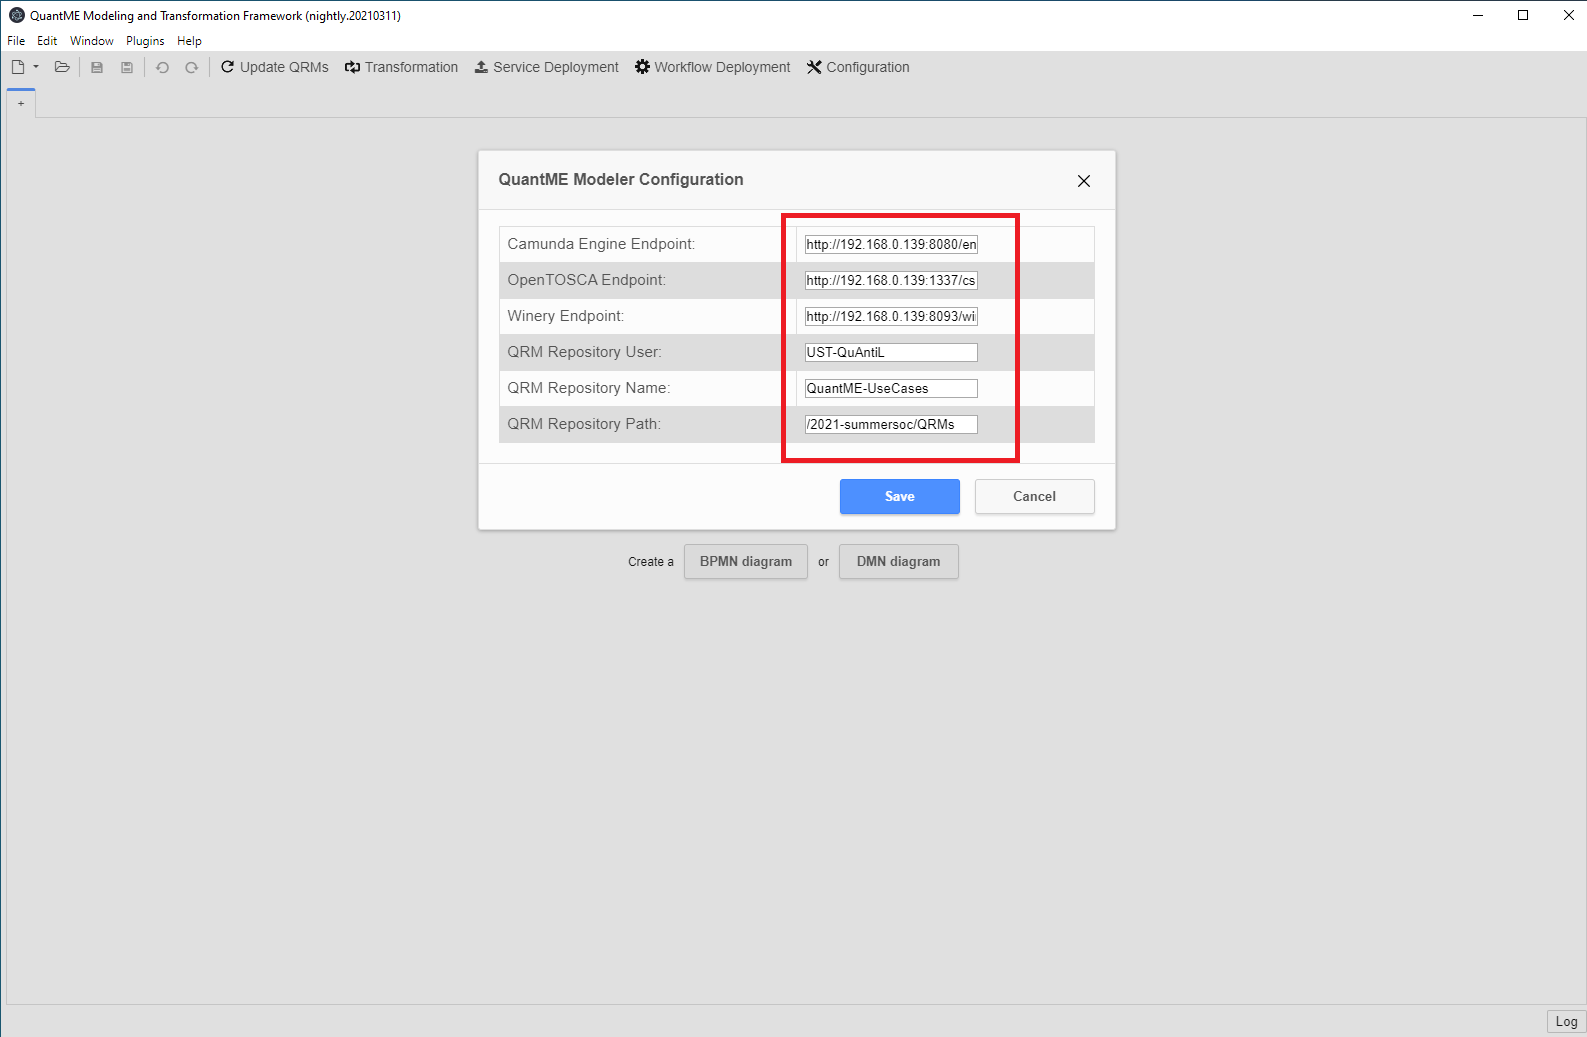
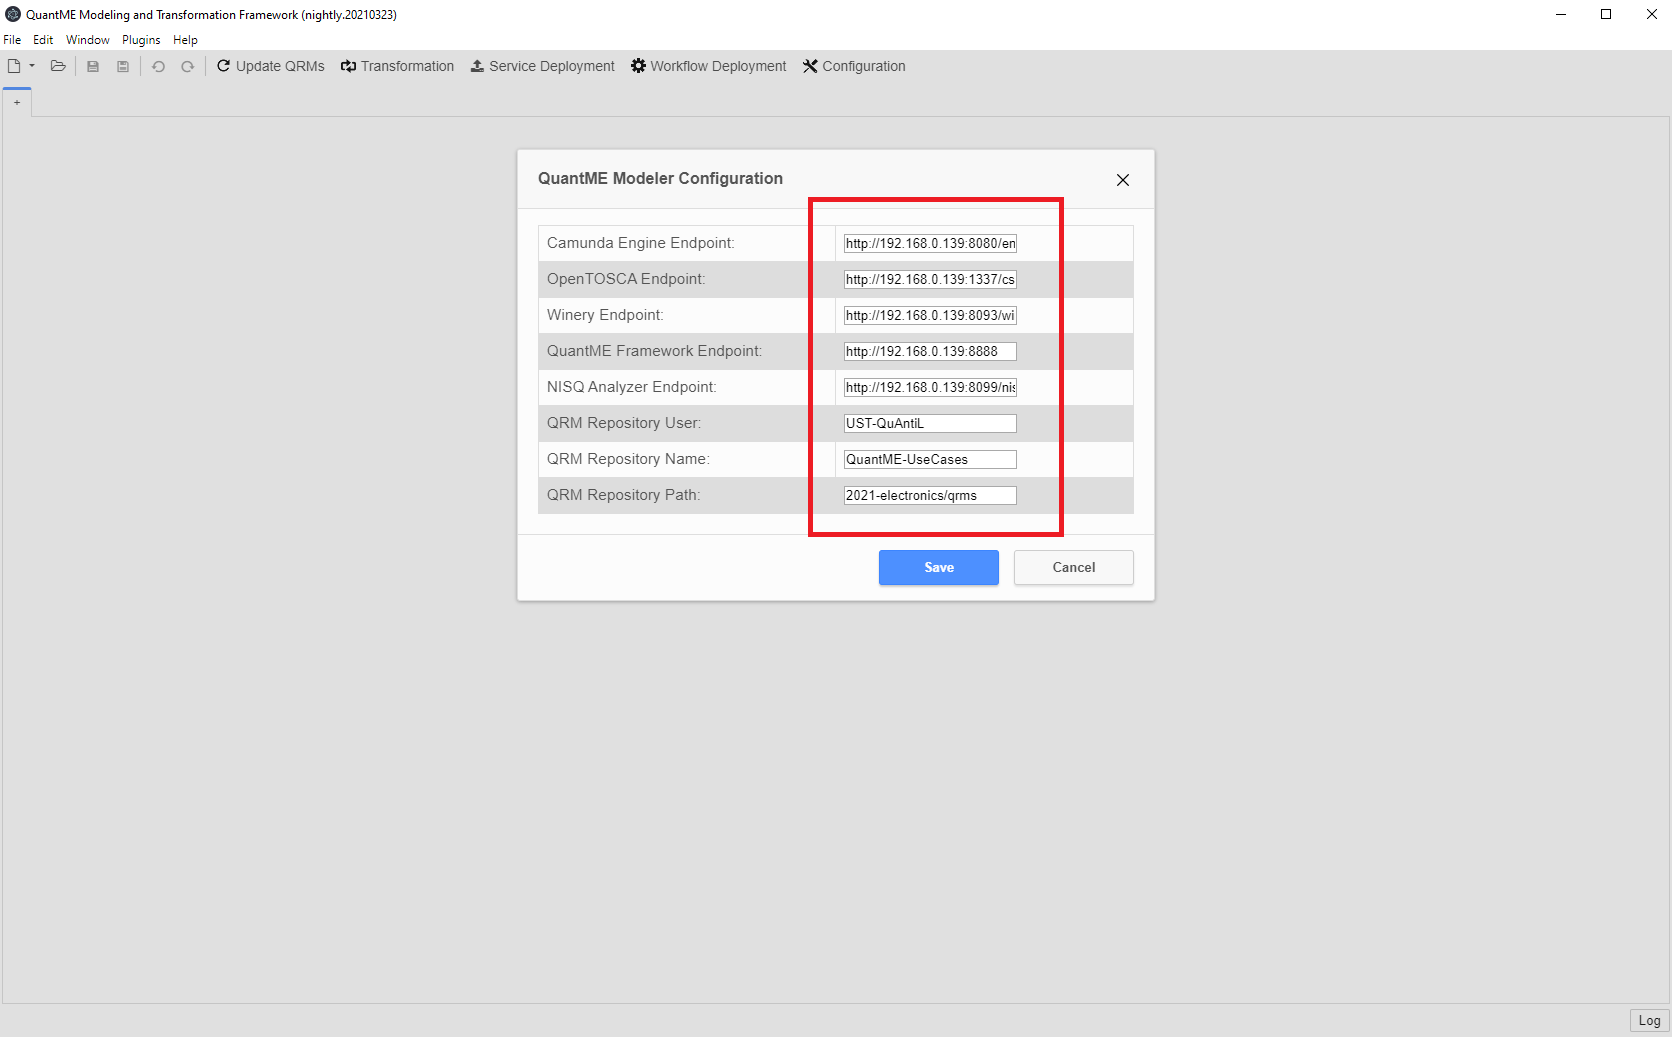
Add transformation step to README

Changed region(s): [[0.2779, 0.1543, 0.7101, 0.5863], [0.0, 0.0, 0.5558, 0.0926], [0.9572, 0.9566, 1.0, 1.0]]

diff --git a/2021-electronics/README.md b/2021-electronics/README.md
@@ -8,7 +8,7 @@ The following figure shows a workflow model implementing Simon's algorithm:
 ![Workflow Model](./workflow/simons-algorithm-hardware-selection.png)
 
 Furthermore, it is available in XML format [here](./workflow/simons-algorithm-hardware-selection.bpmn).
-In the following, the different steps to execute the workflow model including the dynamic hardware selection is presented.
+In the following, the different steps to execute the workflow model including the dynamic hardware selection are presented.
 
 Please refer to the *Troubleshooting* section at the end of this README if you have some issues during execution!
 
@@ -46,7 +46,7 @@ Thereby, $IP has to be replaced with the IP-address of the Docker engine if you 
 * ``Winery Endpoint``: http://$IP:8093/winery
 * ``QRM Repository User``: UST-QuAntiL
 * ``QRM Repository Name``: QuantME-UseCases
-* ``QRM Repository Path``: /2021-summersoc/QRMs
+* ``QRM Repository Path``: /2021-electronics/QRMs
 
 ![Update Configuration](./docs/update-settings.png)
 
@@ -56,7 +56,7 @@ All other required service can be started using the Docker-Compose file located 
 
 1. Update the [.env](./docker/.env) file with your settings: 
   * ``PUBLIC_HOSTNAME``: Enter the hostname/IP address of your Docker engine. Do *not* use ``localhost``.
-  * ``IBM_ACCESS_TOKEN``: Enter your IBM access token which is needed to retrieve the required provenance data by [QProv](https://github.com/UST-QuAntiL/qprov). It can be retrieved using the [IBM Quantum Experience](https://quantum-computing.ibm.com/) UI.
+  * ``IBM_ACCESS_TOKEN``: Enter your IBM access token which is needed to retrieve the required provenance data by [QProv](https://github.com/UST-QuAntiL/qprov). It can be obtained using the [IBM Quantum Experience](https://quantum-computing.ibm.com/) UI.
 
 2. Run the Docker-Compose file:
 ```
@@ -77,6 +77,15 @@ Next, the workflow model implementing Simon's algorithm is imported into QuantME
 The workflow model should now be visible in the QuantME Transformation Framework:
 
 ![Imported Workflow](./docs/import-workflow.png)
+
+Click on the ``Transformation`` button on the top to transform the workflow model into a native BPMN workflow model, which is afterwards visible in the modeler:
+
+![Transformed Workflow](./docs/transform-workflow.png)
+
+In the next step, the required services for the service tasks in the workflow are deployed.
+Thereby, only the service instances for the tasks outside the QuantumHardwareSelectionSubprocess are created, as the other services are deployed on-demand after the hardware selection on workflow runtime.
+Thus, three services are deployed in this step.
+To initiate the deployment, click on the ``Service Deployment`` button on the top of the modeler:
 
 TODO
 
